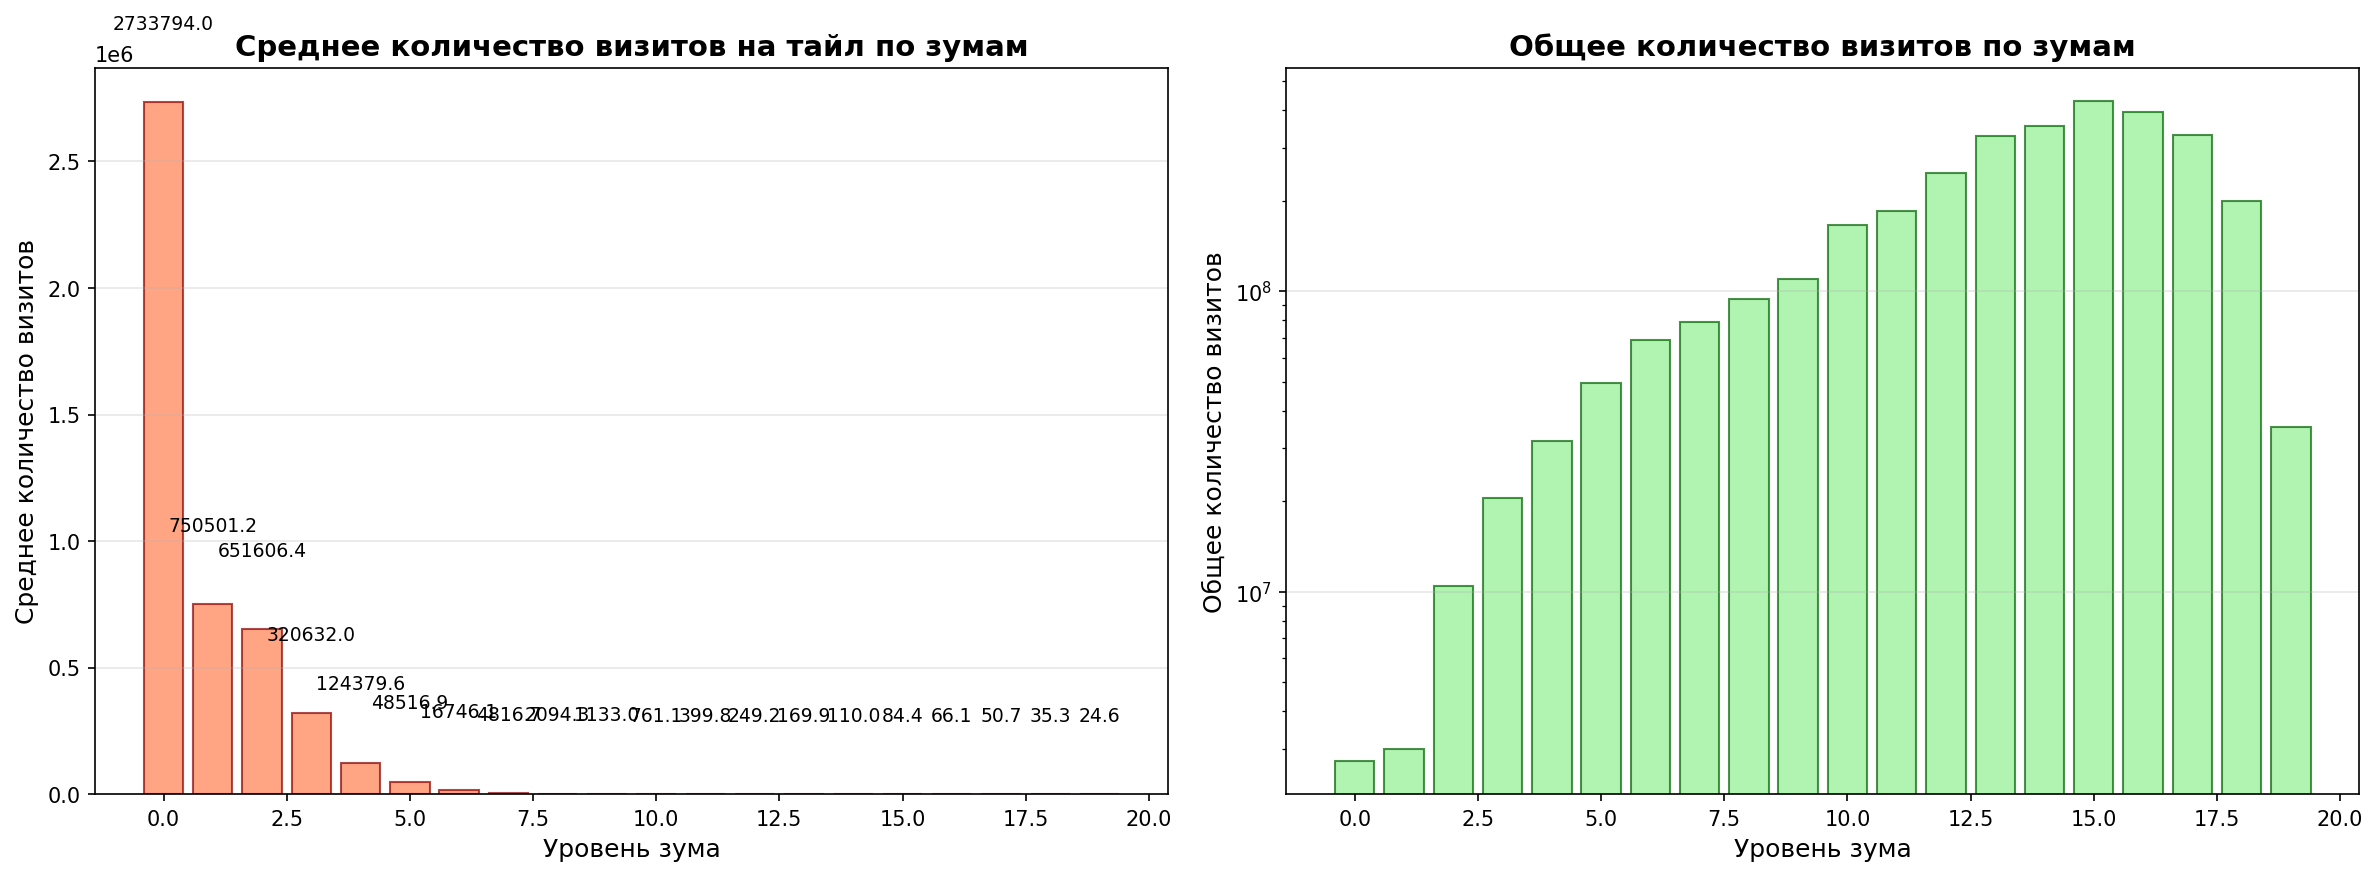
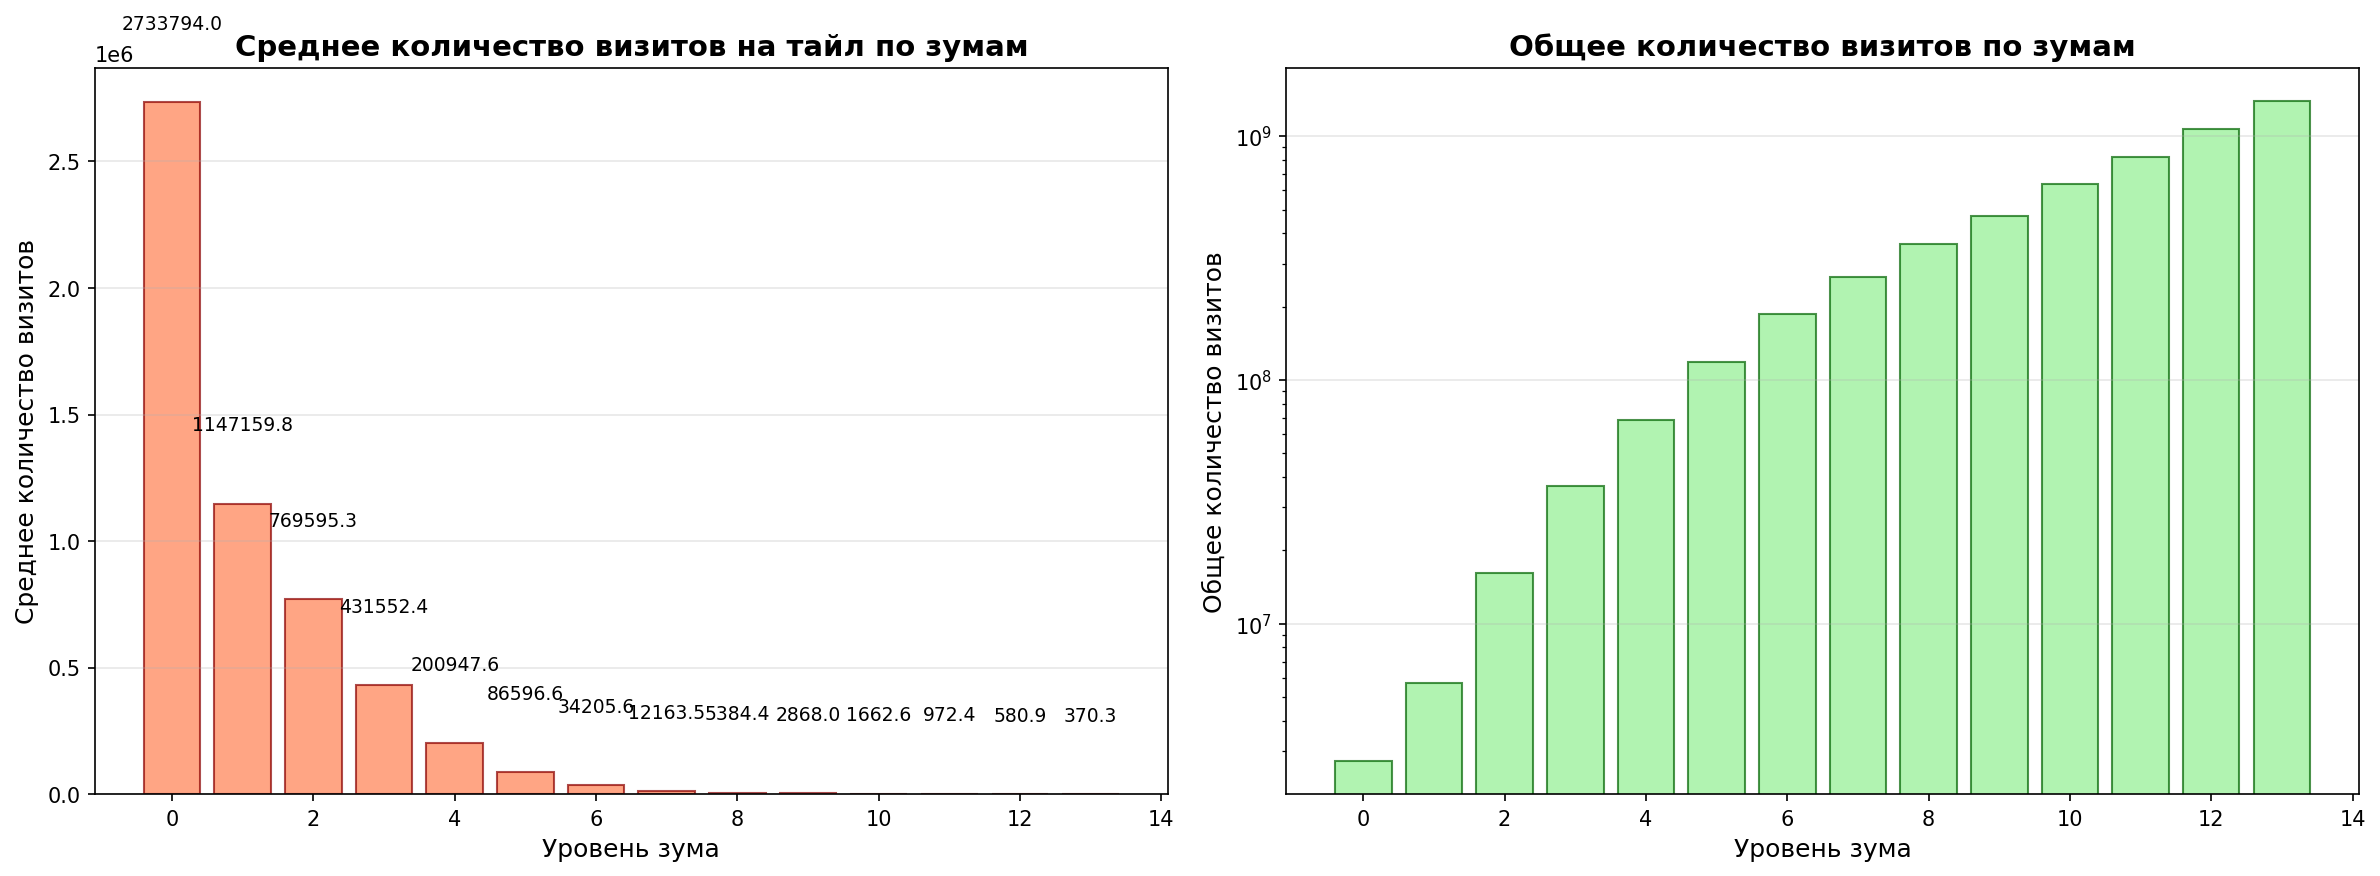
something

diff --git a/py_utils/tile_stats.py b/py_utils/tile_stats.py
@@ -60,20 +60,9 @@ def parse_stats_file_generator(filepath: str):
 if __name__ == "__main__":
     index_path = "/home/yc-user/tiles/tilesets/data/2025-08-02-planet.index"
     stats_path = "/home/yc-user/tiles/tilesets/log/tiles-2025-09-01.bin"
-    
-    # Read index data
-    cnt = 0
-    tile_info = []
-    bar = tqdm.tqdm(total=69875051, desc="Processing tiles")
-    for item in parse_index_file_generator(index_path):
-        tile_info.append(item)
-        bar.update(1)
-        cnt += 1
-        if cnt == 69875051:
-            break
-    bar.close()
-    
-    # Read stats data
+
+    only_visits = 1
+
     stats_info = []
     bar = tqdm.tqdm(total=31703414, desc="Processing stats")
     for item in parse_stats_file_generator(stats_path):
@@ -81,146 +70,163 @@ if __name__ == "__main__":
         bar.update(1)
     bar.close()
 
-    """
-    посчитать статистики
-    1) распределение тайлов по размеру в зависимости от зума
-    2) сколько в среднем на тайл визитов в зависимости от зума
-    """
+    if not only_visits:
     
-    # 1) Распределение тайлов по размеру в зависимости от зума
-    print("\n=== Распределение тайлов по размеру в зависимости от зума ===")
-    
-    # Группируем тайлы по зумам
-    tiles_by_zoom = {}
-    for zoom in range(14):
-        if zoom not in tiles_by_zoom:
-            tiles_by_zoom[zoom] = []
+    # Read index data
+        cnt = 0
+        tile_info = []
+        bar = tqdm.tqdm(total=69875051, desc="Processing tiles")
+        for item in parse_index_file_generator(index_path):
+            tile_info.append(item)
+            bar.update(1)
+            cnt += 1
+            if cnt == 69875051:
+                break
+        bar.close()
 
-    for tile in tile_info:
-        zoom = tile.z
-        
-        for zoom_id in range(zoom, 14):
-            tiles_by_zoom[zoom_id].append(tile)
-    
-    # Выводим статистику по зумам
-    print(f"Всего зумов: {len(tiles_by_zoom)}")
-    for zoom in sorted(tiles_by_zoom.keys()):
-        tiles = tiles_by_zoom[zoom]
-        sizes = [tile.size for tile in tiles]
-        print(f"Zoom {zoom}: {len(tiles)} тайлов, размеры: "
-              f"min={min(sizes)}B, max={max(sizes)}B, "
-              f"avg={np.mean(sizes):.0f}B, med={np.median(sizes):.0f}B")
-    
-    # Создаем графики
-    # Вариант 1: Общий график для всех зумов (в логарифмическом масштабе)
-    print("\nСоздание общего графика распределения размеров тайлов...")
-    fig1, ax1 = plt.subplots(figsize=(14, 8))
-    
-    all_sizes = [tile.size for tile in tile_info]
-    
-    # Логарифмическая гистограмма
-    ax1.hist(all_sizes, bins=100, log=True, alpha=0.7, color='blue', edgecolor='black')
-    ax1.set_xlabel('Размер тайла (байты)', fontsize=12)
-    ax1.set_ylabel('Количество тайлов (log scale)', fontsize=12)
-    ax1.set_title('Распределение размеров тайлов (все зумы)', fontsize=14, fontweight='bold')
-    ax1.grid(True, alpha=0.3)
-    
-    # Добавляем вертикальные линии для квартилей
-    q25, q50, q75 = np.percentile(all_sizes, [25, 50, 75])
-    ax1.axvline(q50, color='red', linestyle='--', alpha=0.7, label=f'Медиана: {int(q50)} B')
-    ax1.axvline(q25, color='orange', linestyle='--', alpha=0.5, label=f'25-й перцентиль: {int(q25)} B')
-    ax1.axvline(q75, color='green', linestyle='--', alpha=0.5, label=f'75-й перцентиль: {int(q75)} B')
-    
-    ax1.legend()
-    plt.tight_layout()
-    plt.savefig('tile_sizes_all_zooms_2.png', dpi=150, bbox_inches='tight')
-    
-    # Вариант 2: Отдельные графики для каждого зума
-    print("\nСоздание отдельных графиков для каждого зума...")
-    
-    # Определяем оптимальную сетку для subplots
-    zoom_levels = sorted(tiles_by_zoom.keys())
-    n_zooms = len(zoom_levels)
-    
-    # Вычисляем размеры сетки
-    cols = 4
-    rows = (n_zooms + cols - 1) // cols
-    
-    fig2, axes = plt.subplots(rows, cols, figsize=(20, 4*rows))
-    axes = axes.flatten() if n_zooms > 1 else [axes]
-    
-    for idx, zoom in enumerate(zoom_levels):
-        ax = axes[idx]
-        sizes = [tile.size for tile in tiles_by_zoom[zoom]]
-        
-        # Гистограмма в логарифмическом масштабе
-        ax.hist(sizes, bins=50, log=True, alpha=0.7, color='steelblue', edgecolor='black')
-        ax.set_title(f'Zoom {zoom} (n={len(sizes):,})', fontsize=11, fontweight='bold')
-        ax.set_xlabel('Размер (B)')
-        ax.set_ylabel('Количество (log)')
-        ax.grid(True, alpha=0.3)
-        
-        # Добавляем медиану
-        median_size = np.median(sizes)
-        ax.axvline(median_size, color='red', linestyle='--', alpha=0.7, 
-                  label=f'Медиана: {int(median_size)} B')
-        ax.legend(fontsize=9)
-        
-        # Форматируем большие числа на оси X
-        if max(sizes) > 1000000:  # Если размеры в мегабайтах
-            ax.xaxis.set_major_formatter(ScalarFormatter(useMathText=True))
-            ax.ticklabel_format(style='sci', axis='x', scilimits=(0,0))
-    
-    # Скрываем пустые subplots
-    for idx in range(len(zoom_levels), len(axes)):
-        axes[idx].set_visible(False)
-    
-    plt.suptitle('Распределение размеров тайлов по зумам', fontsize=16, fontweight='bold', y=1.02)
-    plt.tight_layout()
-    plt.savefig('tile_sizes_by_zoom_2.png', dpi=150, bbox_inches='tight')
-    
-    # Вариант 3: Box plot для сравнения распределений по зумам
-    print("\nСоздание Box plot для сравнения распределений...")
-    fig3, ax3 = plt.subplots(figsize=(14, 8))
-    
-    # Собираем данные для box plot
-    box_data = []
-    box_labels = []
-    for zoom in sorted(tiles_by_zoom.keys()):
-        sizes = [tile.size for tile in tiles_by_zoom[zoom]]
-        if len(sizes) > 10:  # Только зумы с достаточным количеством тайлов
-            box_data.append(sizes)
-            box_labels.append(f'Z{zoom}\n(n={len(sizes):,})')
-    
-    # Создаем box plot с логарифмической шкалой
-    box = ax3.boxplot(box_data, labels=box_labels, showfliers=False, patch_artist=True)
-    
-    # Раскрашиваем box'ы
-    colors = plt.cm.viridis(np.linspace(0, 1, len(box_data)))
-    for patch, color in zip(box['boxes'], colors):
-        patch.set_facecolor(color)
-        patch.set_alpha(0.7)
-    
-    ax3.set_yscale('log')
-    ax3.set_ylabel('Размер тайла (байты, log scale)', fontsize=12)
-    ax3.set_xlabel('Уровень зума', fontsize=12)
-    ax3.set_title('Сравнение распределений размеров тайлов по зумам (без выбросов)', 
-                  fontsize=14, fontweight='bold')
-    ax3.grid(True, alpha=0.3, axis='y')
-    plt.xticks(rotation=45)
-    plt.tight_layout()
-    plt.savefig('tile_sizes_boxplot_2.png', dpi=150, bbox_inches='tight')
-    
+        """
+        посчитать статистики
+        1) распределение тайлов по размеру в зависимости от зума
+        2) сколько в среднем на тайл визитов в зависимости от зума
+        """
+
+        # 1) Распределение тайлов по размеру в зависимости от зума
+        print("\n=== Распределение тайлов по размеру в зависимости от зума ===")
+
+        # Группируем тайлы по зумам
+        tiles_by_zoom = {}
+        for zoom in range(14):
+            if zoom not in tiles_by_zoom:
+                tiles_by_zoom[zoom] = []
+
+        for tile in tile_info:
+            zoom = tile.z
+            
+            for zoom_id in range(zoom, 14):
+                tiles_by_zoom[zoom_id].append(tile)
+
+        # Выводим статистику по зумам
+        print(f"Всего зумов: {len(tiles_by_zoom)}")
+        for zoom in sorted(tiles_by_zoom.keys()):
+            tiles = tiles_by_zoom[zoom]
+            sizes = [tile.size for tile in tiles]
+            print(f"Zoom {zoom}: {len(tiles)} тайлов, размеры: "
+                    f"min={min(sizes)}B, max={max(sizes)}B, "
+                    f"avg={np.mean(sizes):.0f}B, med={np.median(sizes):.0f}B")
+
+        # Создаем графики
+        # Вариант 1: Общий график для всех зумов (в логарифмическом масштабе)
+        print("\nСоздание общего графика распределения размеров тайлов...")
+        fig1, ax1 = plt.subplots(figsize=(14, 8))
+
+        all_sizes = [tile.size for tile in tile_info]
+
+        # Логарифмическая гистограмма
+        ax1.hist(all_sizes, bins=100, log=True, alpha=0.7, color='blue', edgecolor='black')
+        ax1.set_xlabel('Размер тайла (байты)', fontsize=12)
+        ax1.set_ylabel('Количество тайлов (log scale)', fontsize=12)
+        ax1.set_title('Распределение размеров тайлов (все зумы)', fontsize=14, fontweight='bold')
+        ax1.grid(True, alpha=0.3)
+
+        # Добавляем вертикальные линии для квартилей
+        q25, q50, q75 = np.percentile(all_sizes, [25, 50, 75])
+        ax1.axvline(q50, color='red', linestyle='--', alpha=0.7, label=f'Медиана: {int(q50)} B')
+        ax1.axvline(q25, color='orange', linestyle='--', alpha=0.5, label=f'25-й перцентиль: {int(q25)} B')
+        ax1.axvline(q75, color='green', linestyle='--', alpha=0.5, label=f'75-й перцентиль: {int(q75)} B')
+
+        ax1.legend()
+        plt.tight_layout()
+        plt.savefig('tile_sizes_all_zooms_2.png', dpi=150, bbox_inches='tight')
+
+        # Вариант 2: Отдельные графики для каждого зума
+        print("\nСоздание отдельных графиков для каждого зума...")
+
+        # Определяем оптимальную сетку для subplots
+        zoom_levels = sorted(tiles_by_zoom.keys())
+        n_zooms = len(zoom_levels)
+
+        # Вычисляем размеры сетки
+        cols = 4
+        rows = (n_zooms + cols - 1) // cols
+
+        fig2, axes = plt.subplots(rows, cols, figsize=(20, 4*rows))
+        axes = axes.flatten() if n_zooms > 1 else [axes]
+
+        for idx, zoom in enumerate(zoom_levels):
+            ax = axes[idx]
+            sizes = [tile.size for tile in tiles_by_zoom[zoom]]
+            
+            # Гистограмма в логарифмическом масштабе
+            ax.hist(sizes, bins=50, log=True, alpha=0.7, color='steelblue', edgecolor='black')
+            ax.set_title(f'Zoom {zoom} (n={len(sizes):,})', fontsize=11, fontweight='bold')
+            ax.set_xlabel('Размер (B)')
+            ax.set_ylabel('Количество (log)')
+            ax.grid(True, alpha=0.3)
+            
+            # Добавляем медиану
+            median_size = np.median(sizes)
+            ax.axvline(median_size, color='red', linestyle='--', alpha=0.7, 
+                        label=f'Медиана: {int(median_size)} B')
+            ax.legend(fontsize=9)
+            
+            # Форматируем большие числа на оси X
+            if max(sizes) > 1000000:  # Если размеры в мегабайтах
+                ax.xaxis.set_major_formatter(ScalarFormatter(useMathText=True))
+                ax.ticklabel_format(style='sci', axis='x', scilimits=(0,0))
+
+        # Скрываем пустые subplots
+        for idx in range(len(zoom_levels), len(axes)):
+            axes[idx].set_visible(False)
+
+        plt.suptitle('Распределение размеров тайлов по зумам', fontsize=16, fontweight='bold', y=1.02)
+        plt.tight_layout()
+        plt.savefig('tile_sizes_by_zoom_2.png', dpi=150, bbox_inches='tight')
+
+        # Вариант 3: Box plot для сравнения распределений по зумам
+        print("\nСоздание Box plot для сравнения распределений...")
+        fig3, ax3 = plt.subplots(figsize=(14, 8))
+
+        # Собираем данные для box plot
+        box_data = []
+        box_labels = []
+        for zoom in sorted(tiles_by_zoom.keys()):
+            sizes = [tile.size for tile in tiles_by_zoom[zoom]]
+            if len(sizes) > 10:  # Только зумы с достаточным количеством тайлов
+                box_data.append(sizes)
+                box_labels.append(f'Z{zoom}\n(n={len(sizes):,})')
+
+        # Создаем box plot с логарифмической шкалой
+        box = ax3.boxplot(box_data, labels=box_labels, showfliers=False, patch_artist=True)
+
+        # Раскрашиваем box'ы
+        colors = plt.cm.viridis(np.linspace(0, 1, len(box_data)))
+        for patch, color in zip(box['boxes'], colors):
+            patch.set_facecolor(color)
+            patch.set_alpha(0.7)
+
+        ax3.set_yscale('log')
+        ax3.set_ylabel('Размер тайла (байты, log scale)', fontsize=12)
+        ax3.set_xlabel('Уровень зума', fontsize=12)
+        ax3.set_title('Сравнение распределений размеров тайлов по зумам (без выбросов)', 
+                        fontsize=14, fontweight='bold')
+        ax3.grid(True, alpha=0.3, axis='y')
+        plt.xticks(rotation=45)
+        plt.tight_layout()
+        plt.savefig('tile_sizes_boxplot_2.png', dpi=150, bbox_inches='tight')
+
     # 2) Сколько в среднем на тайл визитов в зависимости от зума
     print("\n=== Среднее количество визитов на тайл в зависимости от зума ===")
     
     # Группируем статистику по зумам
+
     visits_by_zoom = {}
     for stat in stats_info:
-        zoom = stat.z
-        if zoom not in visits_by_zoom:
-            visits_by_zoom[zoom] = []
-        visits_by_zoom[zoom].append(stat.visits)
+        zoom_id = stat.z
+
+        for zoom in range(zoom_id, 14):
+            if zoom not in visits_by_zoom:
+                visits_by_zoom[zoom] = []
+            visits_by_zoom[zoom].append(stat.visits)
     
     # Вычисляем средние значения
     avg_visits_by_zoom = {}

diff --git a/metrika/metrika.cpp b/metrika/metrika.cpp
@@ -66,13 +66,12 @@ double Metrika::compute_ideal() const {
     std::size_t expected_fair_lookup_bytes = 0;
     for (auto [x, y, z, size, offset] : tile_info_->get_items()) {
         offset = handler_->align(offset);
-        std::size_t uncached_bytes = 0;
-        for (std::size_t page_addr = offset; page_addr < offset + size; page_addr += handler_->get_page_size()) {
-            if (!handler_->is_prioritized(page_addr)) {
-                uncached_bytes += (size + size - 1) / handler_->get_page_size();
-            }
+        
+        if (handler_->is_prioritized(offset)) {
+            continue;
         }
-        expected_fair_lookup_bytes += stats_->get_visits_for(x, y, z) * uncached_bytes;
+        std::size_t uncached_bytes = (size + handler_->get_page_size() - 1) / handler_->get_page_size();
+        expected_fair_lookup_bytes += stats_->get_visits_for(x, y, z) * uncached_bytes * handler_->get_page_size();
     }
 
     std::size_t total_visits = stats_->get_total_visits();

diff --git a/tools/comp_metrics.cpp b/tools/comp_metrics.cpp
@@ -61,6 +61,10 @@ int main(int argc, char* argv[]) {
     output_metrics<SectorStrategy>(&stats, &tiles, ratio, "SectorStrategy");
     // output_metrics<KnapsackStrategy>(&stats, &tiles, ratio, "KnapsackStrategy");
     output_metrics<GreedyStrategy>(&stats, &tiles, ratio, "GreedyStrategy");
-    // output_metrics<GreedyScaledStrategy>(&stats, &tiles, ratio, "GreedyScaledStrategy");
-    // output_metrics<RandomStrategy>(&stats, &tiles, ratio, "RandomStrategy");
+    output_metrics<GreedyScaledStrategy>(&stats, &tiles, ratio, "GreedyScaledStrategy");
+    output_metrics<RandomStrategy>(&stats, &tiles, ratio, "RandomStrategy");
+    /*
+        1) implement silly approach without any reaarange and compare it with greedy
+        2) 
+    */
 }

diff --git a/metrika/strategy.cpp b/metrika/strategy.cpp
@@ -261,7 +261,7 @@ PageHandle KnapsackStrategy::build_handler(
     for (std::size_t k = 1; k <= kTilesCnt; k++) {
         for (std::size_t s = 1; s <= kRAMBound; s++) {
             if (s >= tiles[k].size) {
-                dp[k][s] = std::max(dp[k - 1][s], dp[k - 1][s - tiles[k].size] + stats->get_visits_for(tiles[k].x, tiles[k].y, tiles[k].z) * (tiles[k].size + tiles[k].size - 1) / kPageSize);     
+                dp[k][s] = std::max(dp[k - 1][s], dp[k - 1][s - tiles[k].size] + stats->get_visits_for(tiles[k].x, tiles[k].y, tiles[k].z) * (tiles[k].size + kPageSize - 1) / kPageSize);     
             } else {
                 dp[k][s] = dp[k - 1][s];
             }

diff --git a/metrika/statistics.h b/metrika/statistics.h
@@ -25,7 +25,7 @@ struct std::hash<std::tuple<std::uint32_t, std::uint32_t, std::uint32_t>> {
 
 namespace stats {
 
-static std::size_t kMaxZoom = 10;
+static std::size_t kMaxZoom = 11;
 
 using libtiles::tileindex::IndexItem;
 using Tuple = std::tuple<std::uint32_t, std::uint32_t, std::uint32_t>;
